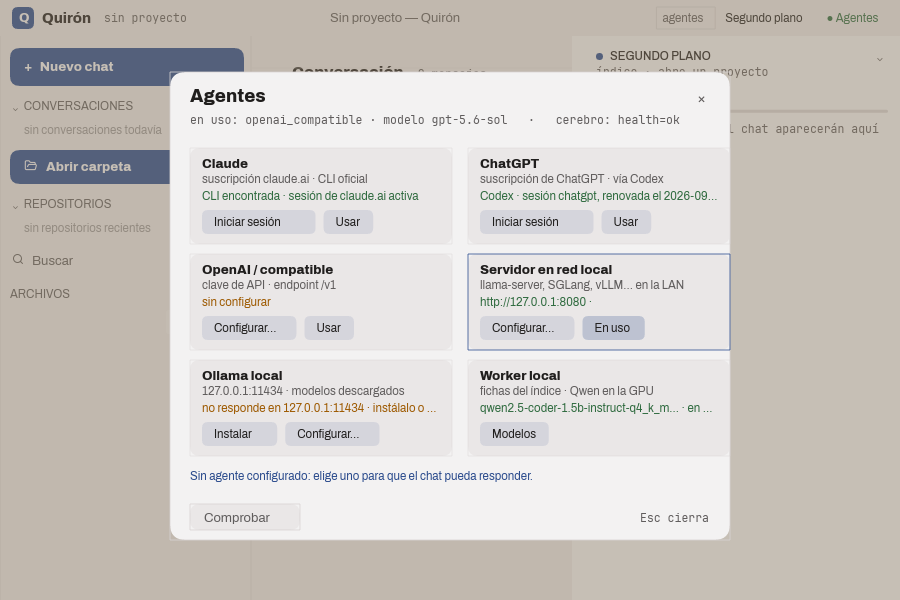
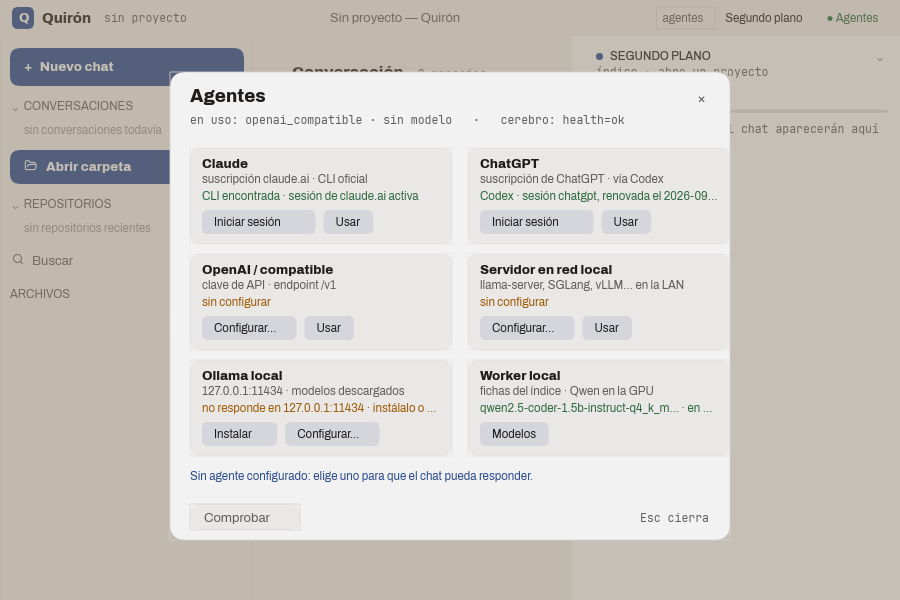
Paleta Agentes: un endpoint sin modelo no cuenta como configurado; la instalación limpia ya no trae endpoint de relleno

diff --git a/Quirón/llore_editor/crates/llore_ui/src/bin/llore_gui.rs b/Quirón/llore_editor/crates/llore_ui/src/bin/llore_gui.rs
@@ -2886,10 +2886,17 @@ fn render_agents_overlay(
     // Cabecera: título, proveedor en uso y cierre.
     let titulo = state.text_system.create_heading_buffer("Agentes", 18.0, 200.0);
     state.text_system.draw_buffer(canvas, &titulo, x0 + 20.0, y0 + 30.0, Color::from_hex(palette.text));
+    // Con un endpoint compatible el modelo es el configurado (o ninguno);
+    // el selector del chat solo manda con Claude.
+    let modelo = if en_uso == "openai_compatible" {
+        probe.as_ref().and_then(|p| p.compatible_model.clone()).map_or("sin modelo".to_string(), |m| format!("modelo {m}"))
+    } else {
+        format!("modelo {}", state.selected_ai_model())
+    };
     let estado = format!(
-        "en uso: {} · modelo {}   ·   cerebro: {}",
+        "en uso: {} · {}   ·   cerebro: {}",
         if en_uso.is_empty() { "sin proveedor" } else { en_uso.as_str() },
-        state.selected_ai_model(),
+        modelo,
         state.quiron_connection_health_label()
     );
     let estado_buf = state.text_system.create_code_buffer(&estado, design::type_scale::XS, ancho - 40.0);
@@ -2973,7 +2980,12 @@ fn render_agents_overlay(
         for (i, (kind, target)) in tarjetas.iter().enumerate() {
             let cx = x0 + 20.0 + (i % 2) as f32 * (columna + 16.0);
             let cy = y + (i / 2) as f32 * (tarjeta_h + 10.0);
-            let guardado = probe.as_ref().and_then(|p| p.compatible_endpoint.as_deref());
+            // Un endpoint sin modelo (la instalación limpia trae uno de
+            // relleno) no cuenta como configurado ni como «en uso».
+            let guardado = probe
+                .as_ref()
+                .filter(|p| p.compatible_model.is_some())
+                .and_then(|p| p.compatible_endpoint.as_deref());
             let activo = en_uso == kind.backend()
                 && match kind {
                     ProviderKind::ClaudeCli | ProviderKind::CodexDirect => true,
@@ -3056,13 +3068,12 @@ fn estado_de_proveedor(kind: ProviderKind, probe: Option<&llore_ui::app::Provide
             (Some(_), Some(s)) => (format!("Codex · {s}"), Some(!s.starts_with("sin"))),
             (Some(_), None) => ("Codex encontrado · sin sesión".to_string(), Some(false)),
         },
-        ProviderKind::OpenAiCompatible | ProviderKind::LocalServer => match p
-            .compatible_endpoint
-            .as_deref()
-            .filter(|e| ProviderKind::from_compatible_endpoint(e) == kind)
-        {
-            Some(e) => (format!("{} · {}", truncate_chars(e, 30), p.compatible_model.clone().unwrap_or_default()), Some(true)),
-            None => ("sin configurar".to_string(), Some(false)),
+        ProviderKind::OpenAiCompatible | ProviderKind::LocalServer => match (
+            p.compatible_endpoint.as_deref().filter(|e| ProviderKind::from_compatible_endpoint(e) == kind),
+            p.compatible_model.as_deref(),
+        ) {
+            (Some(e), Some(m)) => (format!("{} · {}", truncate_chars(e, 30), m), Some(true)),
+            _ => ("sin configurar".to_string(), Some(false)),
         },
         ProviderKind::Ollama => match &p.ollama_models {
             None => ("no responde en 127.0.0.1:11434 · instálalo o arráncalo".to_string(), Some(false)),

diff --git a/deploy/install-linux.py b/deploy/install-linux.py
@@ -88,10 +88,11 @@ def main():
         "QDRANT_CODE_COLLECTION": "quiron_code", "NEO4J_URI": "bolt://127.0.0.1:7687",
         "NEO4J_USER": "neo4j", "NEO4J_PASSWORD": secrets.token_hex(24),
         "SEMANTIC_BACKEND": "inprocess", "EMBED_MODEL": "BAAI/bge-m3",
+        # Sin endpoint ni modelo: la paleta Agentes del editor se abre sola en el
+        # primer arranque y guarda aquí lo que se elija.
         "QUIRON_GATEWAY_BACKEND": "openai_compatible",
-        "QUIRON_LLM_ENDPOINT_PRIMARY": "http://127.0.0.1:8080",
     }
-    write(config, "# Configura el proveedor y modelo antes de usar el chat.\n" +
+    write(config, "# El agente se elige desde la paleta Agentes del editor (o con scripts/configure-provider.py).\n" +
           "\n".join(k + "=" + env_quote(v) for k, v in values.items()) + "\n", 0o600)
 
     def unit_quote(p):
